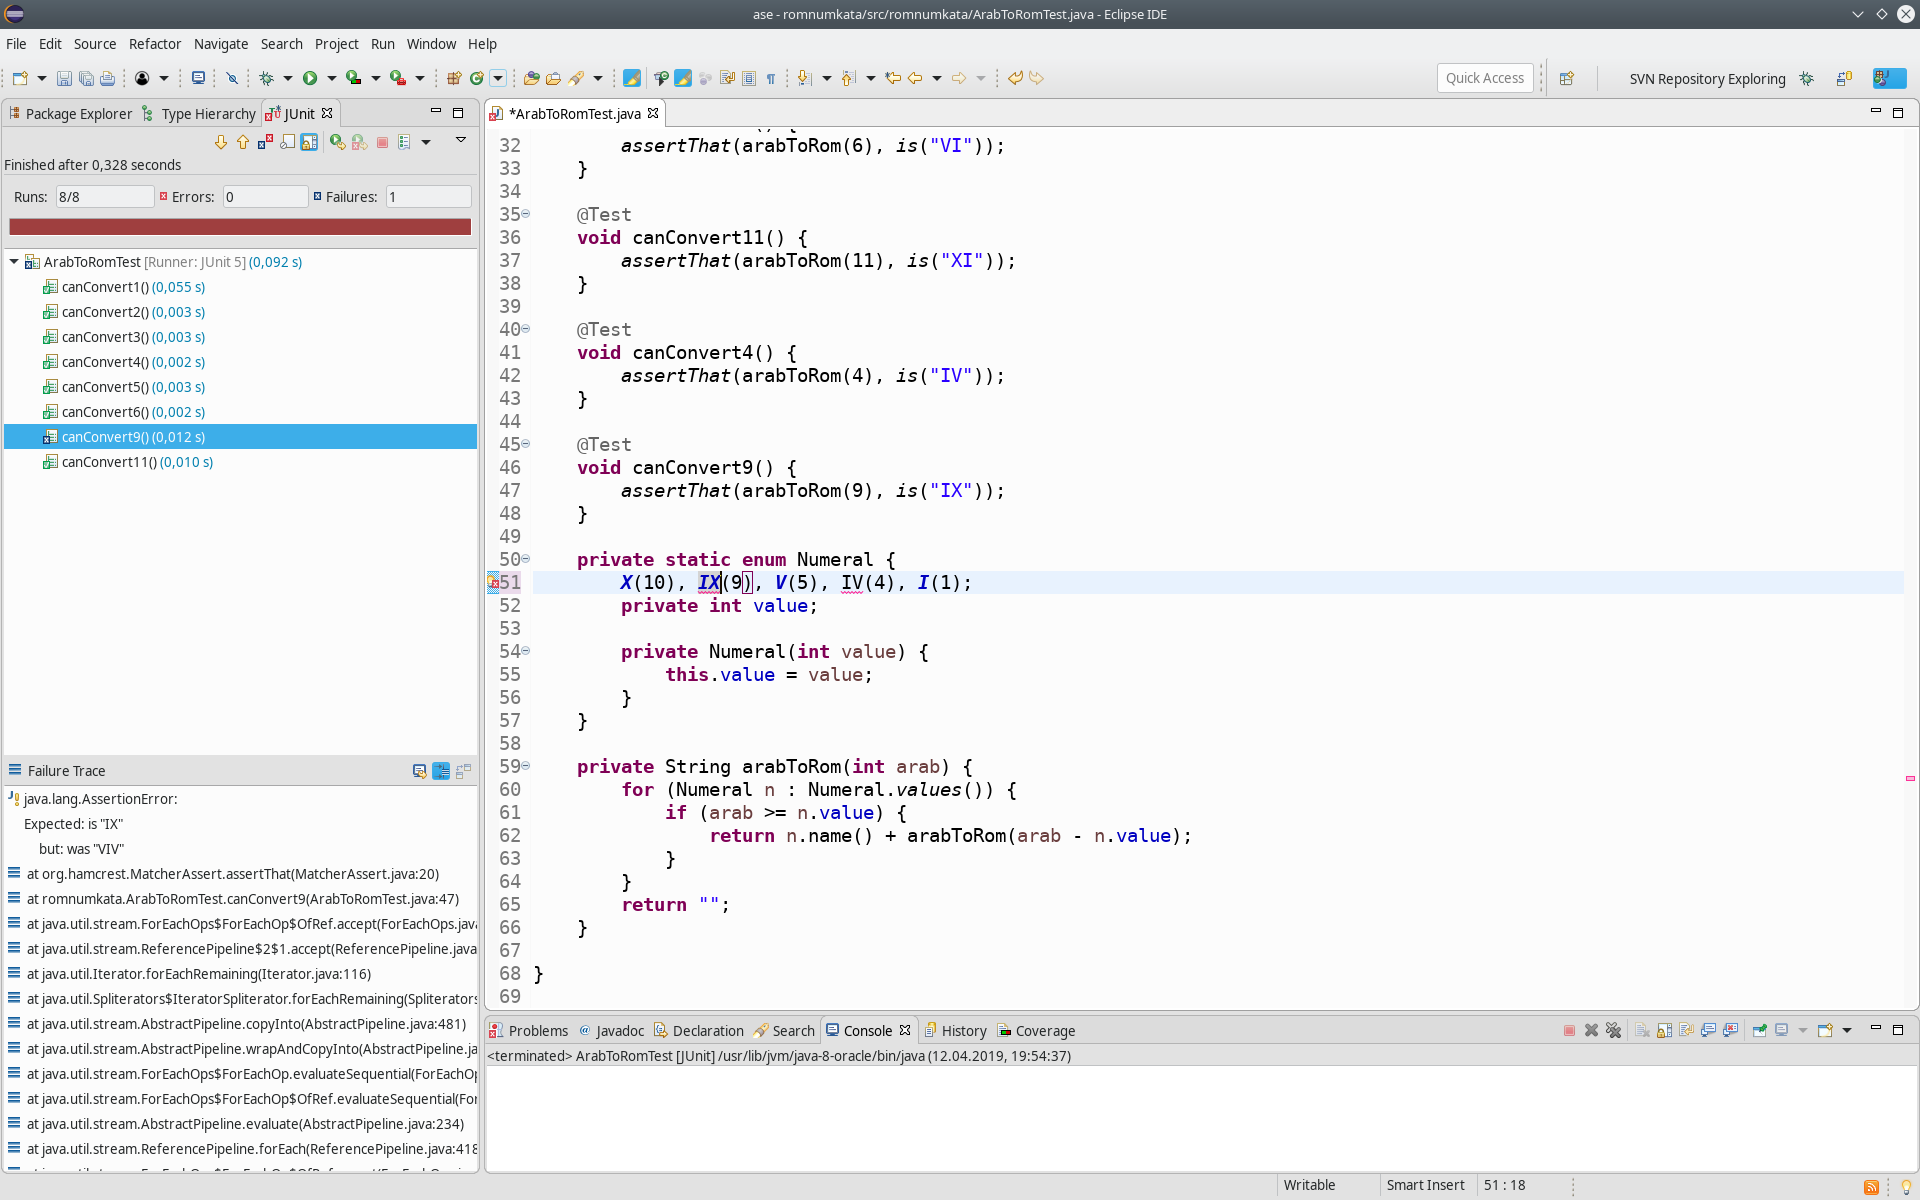
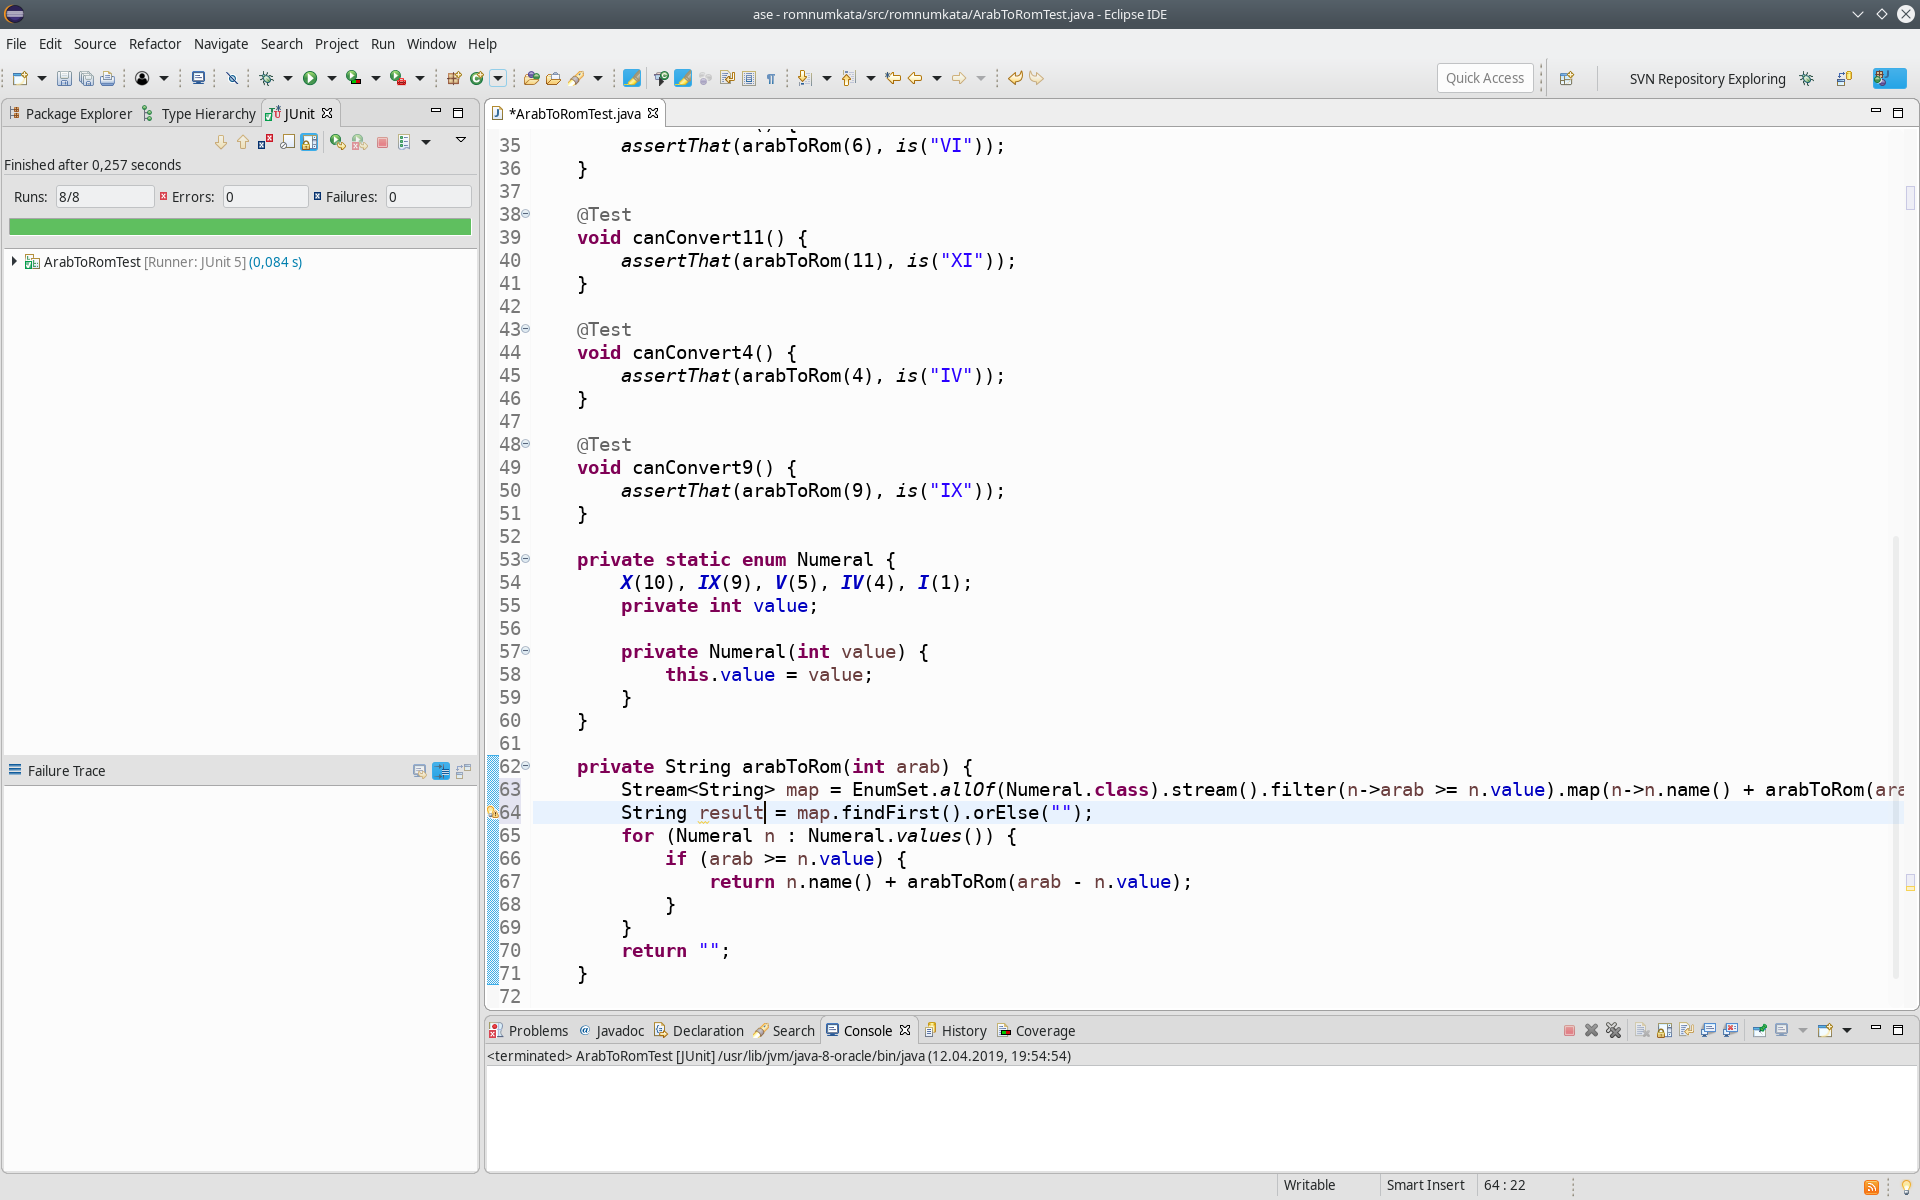
autocommit on change

diff --git a/src/romnumkata/ArabToRomTest.java b/src/romnumkata/ArabToRomTest.java
@@ -3,6 +3,9 @@ package romnumkata;
 import static org.hamcrest.CoreMatchers.is;
 import static org.junit.Assert.assertThat;
 
+import java.util.EnumSet;
+import java.util.stream.Stream;
+
 import org.junit.jupiter.api.Test;
 
 public class ArabToRomTest {
@@ -57,6 +60,8 @@ public class ArabToRomTest {
 	}
 
 	private String arabToRom(int arab) {
+		Stream<String> map = EnumSet.allOf(Numeral.class).stream().filter(n->arab >= n.value).map(n->n.name() + arabToRom(arab - n.value));
+		String result = map.findFirst().orElse("");
 		for (Numeral n : Numeral.values()) {
 			if (arab >= n.value) {
 				return n.name() + arabToRom(arab - n.value);
